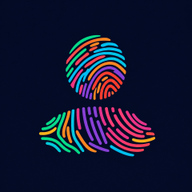
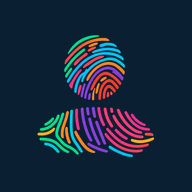
Ícone do app: fingerprint colorido em fundo navy (todos os tamanhos)
Regenera favicon, pwa 192/512, maskable 192/512 e apple-touch com o mark
colorido centrado em navy cheio, com margem segura pro recorte adaptativo do
Android. Sem borda (o SO recorta os cantos). Bump de cache ?v=2 -> ?v=3.

Claude-Session: https://claude.ai/code/session_01BPtHH23oqav1xtTU8Gezm7

Changed region(s): [[0.1875, 0.1562, 0.8125, 0.8438]]

diff --git a/index.html b/index.html
@@ -36,10 +36,10 @@
     />
 
     <link rel="manifest" href="/manifest.json" />
-    <link rel="icon" type="image/png" href="/favicon.png?v=2" />
-    <link rel="icon" type="image/png" sizes="192x192" href="/pwa-icon-192.png?v=2" />
-    <link rel="icon" type="image/png" sizes="512x512" href="/pwa-icon-512.png?v=2" />
-    <link rel="apple-touch-icon" href="/apple-touch-icon.png?v=2" />
+    <link rel="icon" type="image/png" href="/favicon.png?v=3" />
+    <link rel="icon" type="image/png" sizes="192x192" href="/pwa-icon-192.png?v=3" />
+    <link rel="icon" type="image/png" sizes="512x512" href="/pwa-icon-512.png?v=3" />
+    <link rel="apple-touch-icon" href="/apple-touch-icon.png?v=3" />
     <meta name="google" content="notranslate" />
 
     <title>My Health ID – Sua saúde, sua identidade</title>
